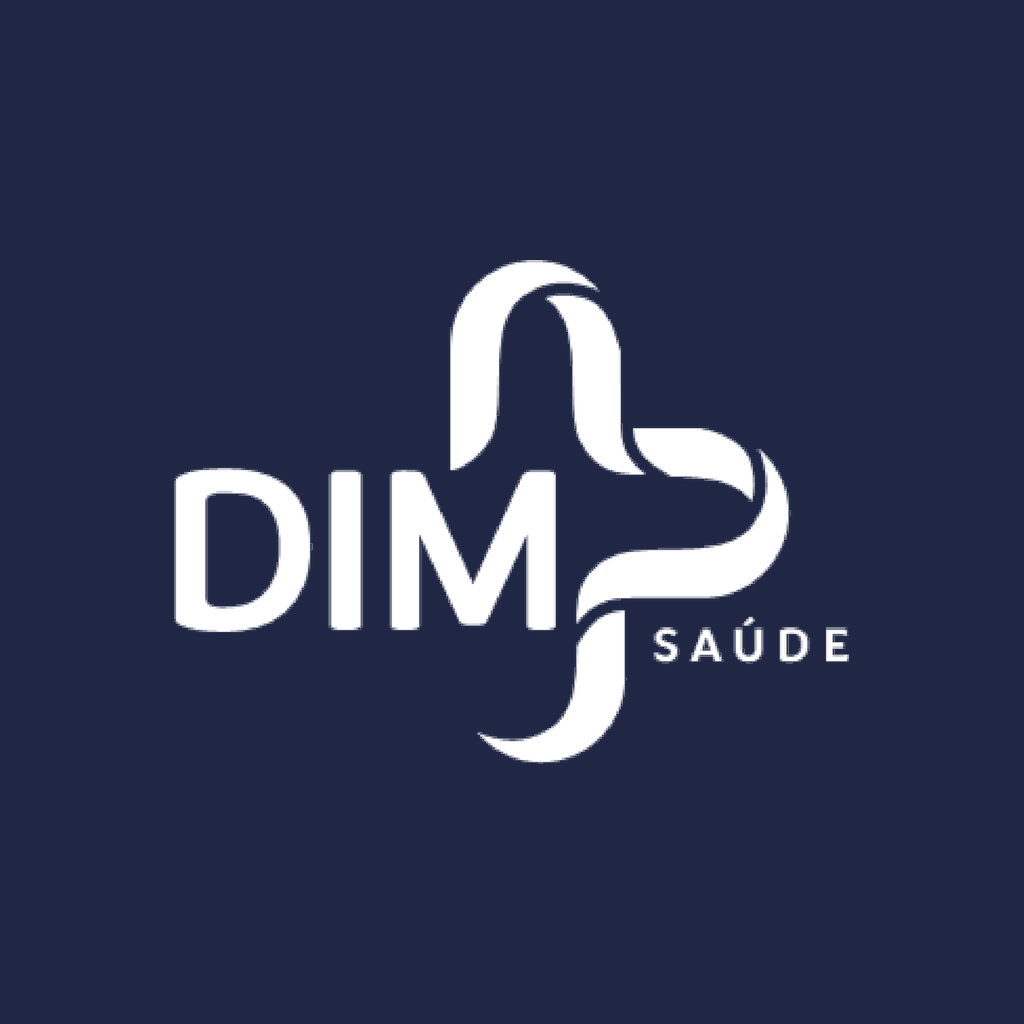
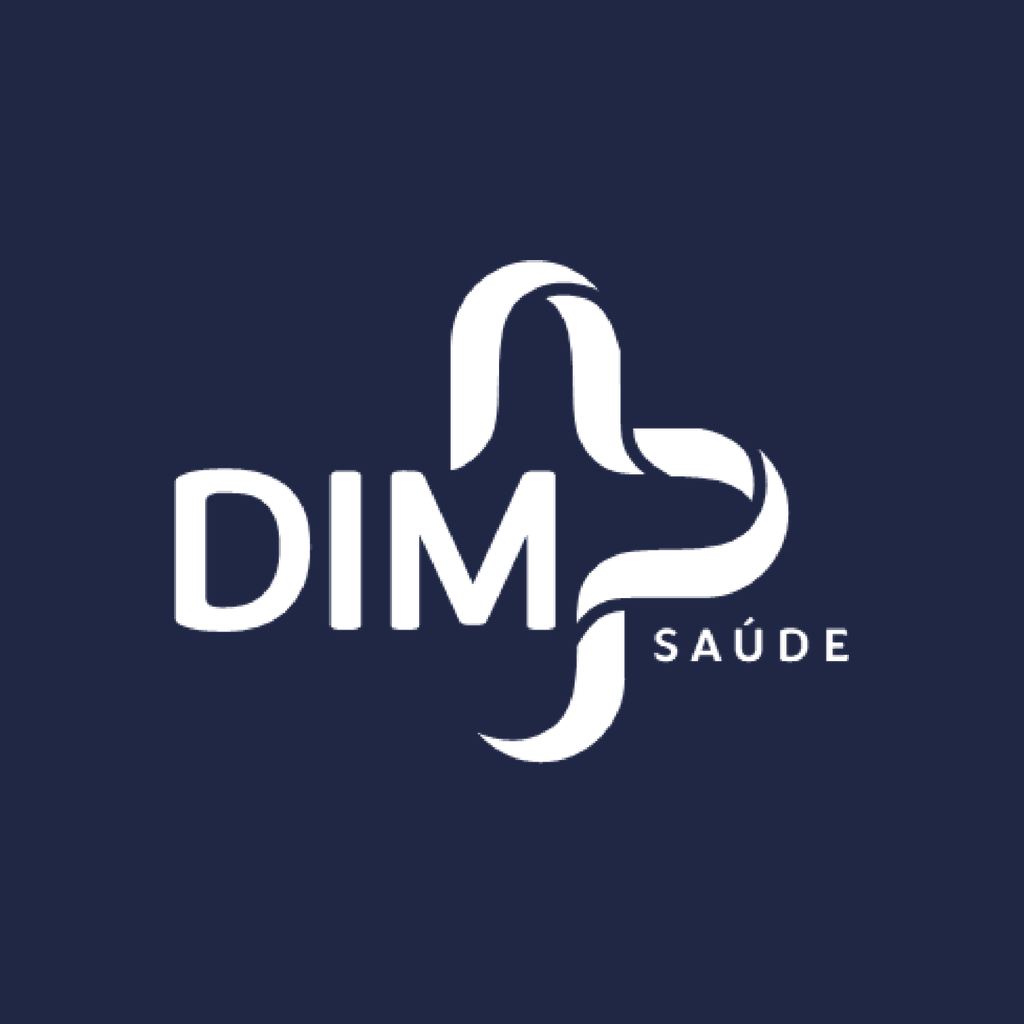
fix(assets): remove canal alfa do icone iOS e alinha patches do SDK 54
- assets/brand/icon.png era RGBA com alfa 191-255. A Apple rejeita icone com
  canal alfa ('App Icon must not contain an alpha channel') — reprovacao boba
  que custaria um ciclo inteiro de review. Achatado sobre o navy da marca
  (#202745), que ja era o fundo do proprio icone: visualmente identico.
- icon-adaptive.png MANTEM o alfa de proposito: o foreground adaptativo do
  Android precisa de transparencia. Sao regras opostas, nao um descuido.
- expo/expo-constants/expo-updates estavam em patch abaixo do exigido pelo SDK.
  expo-doctor foi de 17/18 para 18/18. Segue no SDK 54 — o teto nao foi rompido
  e runtimeVersion.policy continua 'sdkVersion'.

diff --git a/src/lib/version.ts b/src/lib/version.ts
@@ -3,6 +3,6 @@
 // Aqui a versão vive em DOIS lugares — manter os dois no MESMO commit:
 //   1. este arquivo (APP_VERSION / APP_VERSION_DATA) — visível no Perfil
 //   2. package.json + app.json (campo "version") — usado pelo EAS Build
-export const APP_VERSION = '0.17.0';
+export const APP_VERSION = '0.17.1';
 export const APP_VERSION_DATA = '26/08/2026';
 // ── FIM BLOCO ──
